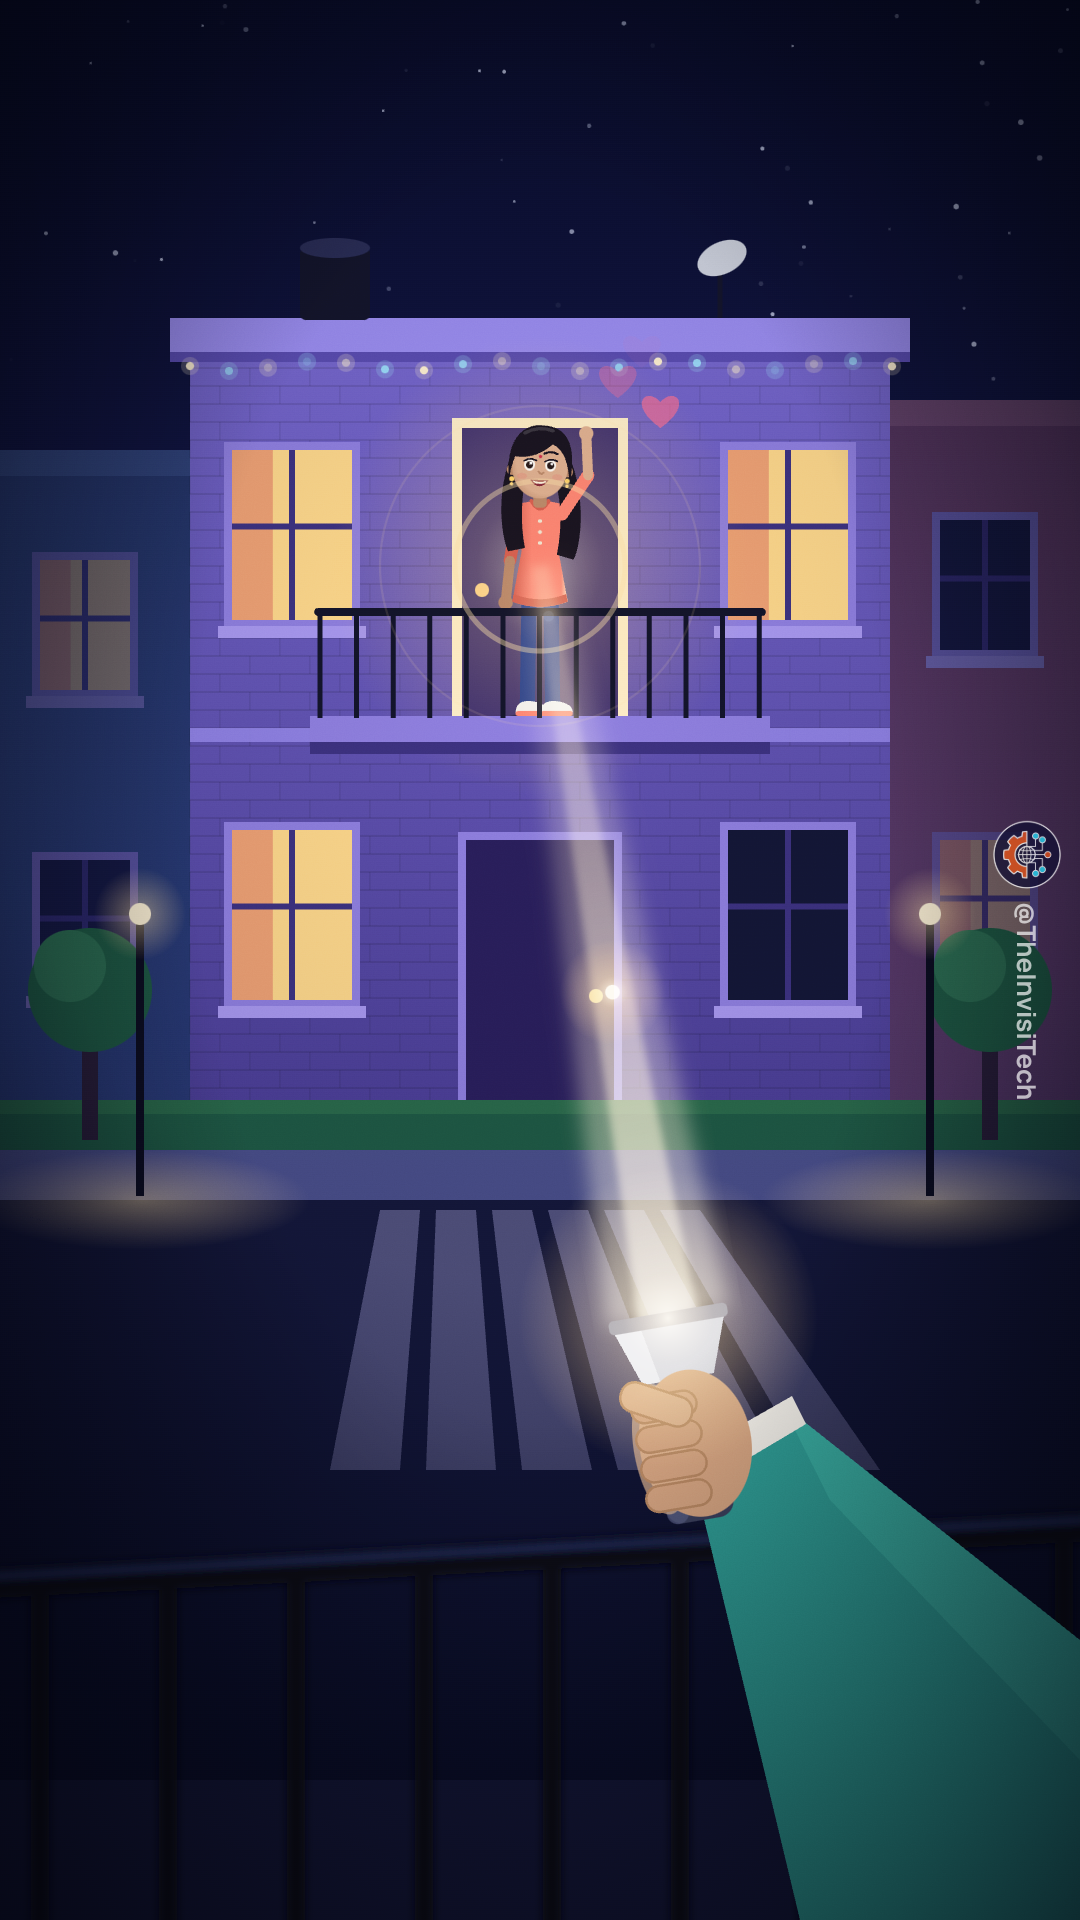
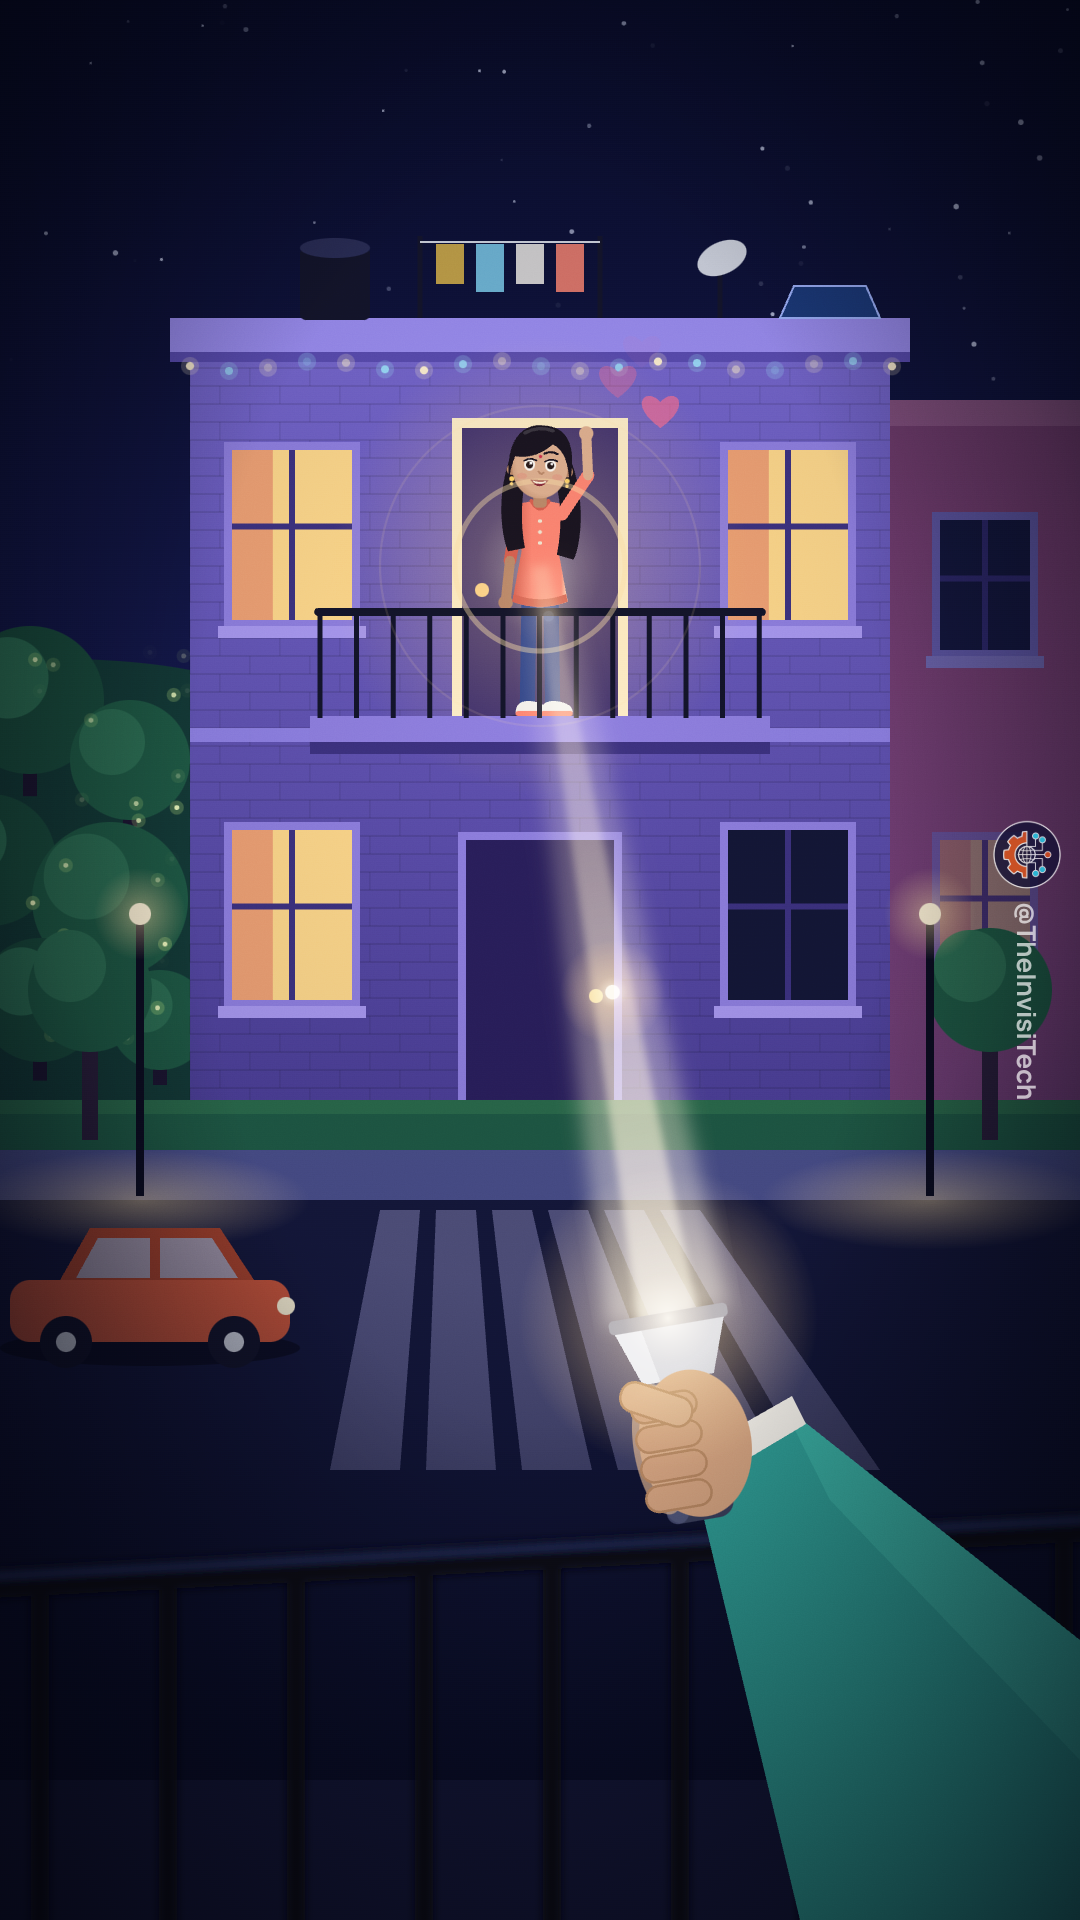
First-person view matched to the street: park, hostel, rooftop details, car
Claude-Session: https://claude.ai/code/session_01GXcKc3rwQcfrK3291f8HAB

diff --git a/internet/v3/src/dusk/Pov.tsx b/internet/v3/src/dusk/Pov.tsx
@@ -33,14 +33,19 @@ export const Pov: React.FC = () => {
         <rect width={1080} height={1920} fill="url(#pSky)" />
         {Array.from({ length: 70 }).map((_, i) => <circle key={i} cx={hash(i * 3) * 1080} cy={hash(i * 7) * 420} r={1 + hash(i) * 1.8} fill="#dfe6ff" opacity={0.35 + 0.4 * Math.sin(t * 2 + i)} />)}
         {/* neighbours, held back in shadow */}
-        <g opacity={0.55}><rect x={-60} y={470} width={280} height={680} fill="#35508a" /><rect x={-70} y={450} width={300} height={26} fill="#4a68a8" /><Win x={40} y={560} w={90} h={130} dim={0.7} /><Win x={40} y={860} w={90} h={130} lit={false} />
-          <rect x={870} y={420} width={280} height={730} fill="#8a4f74" /><rect x={860} y={400} width={300} height={26} fill="#a8688c" /><Win x={940} y={520} w={90} h={130} lit={false} /><Win x={940} y={840} w={90} h={130} dim={0.7} /></g>
+        {/* left: the park. right: the pink hostel. Both held back in shadow, as in the street scene */}
+        <rect x={-20} y={700} width={230} height={420} fill="#143a36" /><ellipse cx={60} cy={705} rx={200} ry={46} fill="#143a36" />
+        {[[30, 700, 74], [130, 760, 60], [-10, 860, 66], [110, 900, 78], [40, 1000, 62], [160, 1020, 50]].map(([x, y, r], i) => <g key={'pt' + i}><rect x={x - 7} y={y} width={14} height={r * 1.3} fill="#1c1630" /><circle cx={x} cy={y} r={r} fill={i % 2 ? '#1f5a44' : '#1a4c3c'} /><circle cx={x - r * 0.3} cy={y - r * 0.3} r={r * 0.55} fill="#2c6e52" /></g>)}
+        {Array.from({ length: 26 }).map((_, i) => { const x = 6 + hash(i * 3) * 180 + Math.sin(t * 0.8 + i) * 8, y = 640 + hash(i * 7) * 440 + Math.cos(t * 0.6 + i * 2) * 8; return <g key={'ff' + i} opacity={0.5 + 0.5 * Math.sin(t * 3 + i * 1.7)}><circle cx={x} cy={y} r={7} fill="#d8ff8a" opacity={0.25} /><circle cx={x} cy={y} r={2.4} fill="#f2ffc0" /></g>; })}
+        <g opacity={0.6}><rect x={870} y={420} width={280} height={730} fill="#b0568a" /><rect x={860} y={400} width={300} height={26} fill="#d078a8" /><Win x={940} y={520} w={90} h={130} lit={false} /><Win x={940} y={840} w={90} h={130} dim={0.7} /></g>
         {/* her house, straight ahead */}
         <rect x={190} y={350} width={700} height={790} fill="url(#pWall)" />
         {Array.from({ length: 44 }).map((_, i) => <line key={i} x1={190} y1={368 + i * 18} x2={890} y2={368 + i * 18} stroke="#000" strokeWidth={1.5} opacity={0.13} />)}
         {Array.from({ length: 44 * 12 }).map((_, i) => { const r = Math.floor(i / 12), c = i % 12; return <line key={i} x1={190 + c * 60 + (r % 2) * 30} y1={368 + r * 18} x2={190 + c * 60 + (r % 2) * 30} y2={386 + r * 18} stroke="#000" strokeWidth={1.2} opacity={0.1} />; })}
         <rect x={170} y={318} width={740} height={40} fill="#9a8cf0" /><rect x={170} y={352} width={740} height={10} fill="#5a4cb0" />
         <rect x={300} y={248} width={70} height={72} rx={6} fill="#14152a" /><ellipse cx={335} cy={248} rx={35} ry={10} fill="#2a2d55" />
+        <line x1={420} y1={318} x2={420} y2={236} stroke="#14152a" strokeWidth={5} /><line x1={600} y1={318} x2={600} y2={236} stroke="#14152a" strokeWidth={5} /><line x1={420} y1={242} x2={600} y2={242} stroke="#cfd3de" strokeWidth={2} />{['#e0b84a', '#7fd0f0', '#f3f0ea', '#ff8672'].map((c, i) => <rect key={c} x={436 + i * 40} y={244} width={28} height={40 + (i % 2) * 8} fill={c} opacity={0.85} />)}
+        <polygon points="780,318 880,318 866,286 794,286" fill="#1c3a7a" stroke="#9fb4ff" strokeWidth={2} />
         <line x1={720} y1={318} x2={720} y2={262} stroke="#14152a" strokeWidth={5} /><ellipse cx={722} cy={258} rx={26} ry={16} fill="#cfd3de" transform="rotate(-25 722 258)" />
         {Array.from({ length: 19 }).map((_, i) => <g key={i}><circle cx={190 + i * 39} cy={366 + Math.sin(i * 1.4) * 5} r={9} fill={i % 2 ? '#9fe9ff' : '#fff1d0'} opacity={0.22} /><circle cx={190 + i * 39} cy={366 + Math.sin(i * 1.4) * 5} r={4} fill={i % 2 ? '#9fe9ff' : '#fff1d0'} opacity={0.6 + 0.4 * Math.sin(t * 3 + i)} /></g>)}
         <rect x={190} y={728} width={700} height={14} fill="#9a8cf0" opacity={0.8} />
@@ -61,6 +66,7 @@ export const Pov: React.FC = () => {
         <rect x={0} y={1150} width={1080} height={50} fill="#4a4f8a" /><polygon points="0,1200 1080,1200 1080,1920 0,1920" fill="#15183a" />
         {[0, 1, 2, 3, 4, 5].map((i) => <polygon key={i} points={`${380 + i * 56},1210 ${420 + i * 56},1210 ${340 + i * 96 + 60},1470 ${340 + i * 96 - 10},1470`} fill="#8e8cc0" opacity={0.5} />)}
         {[140, 930].map((x) => <g key={x}><ellipse cx={x} cy={1200} rx={170} ry={50} fill="url(#pLamp)" /><line x1={x} y1={1196} x2={x} y2={920} stroke="#0c0d20" strokeWidth={8} /><circle cx={x} cy={914} r={46} fill="url(#pLamp)" /><circle cx={x} cy={914} r={11} fill="#fff3d6" /></g>)}
+        <g transform="translate(150 1290)"><ellipse cx={0} cy={58} rx={150} ry={18} fill="#000" opacity={0.4} /><rect x={-140} y={-10} width={280} height={62} rx={20} fill="#c8553a" /><path d="M -90 -10 L -60 -62 L 70 -62 L 104 -10 Z" fill="#a8432c" /><path d="M -74 -12 L -52 -52 L 0 -52 L 0 -12 Z M 10 -12 L 10 -52 L 62 -52 L 88 -12 Z" fill="#9fd0ff" opacity={0.6} /><circle cx={-84} cy={52} r={26} fill="#14152a" /><circle cx={84} cy={52} r={26} fill="#14152a" /><circle cx={-84} cy={52} r={10} fill="#cfd3de" /><circle cx={84} cy={52} r={10} fill="#cfd3de" /><circle cx={136} cy={16} r={9} fill="#fff6d8" /></g>
         {/* selective light: the world drops back, she stays bright */}
         <rect x={-460} y={-420} width={2000} height={2200} fill="url(#pSpot)" />
         {/* the beam from your torch to her */}
